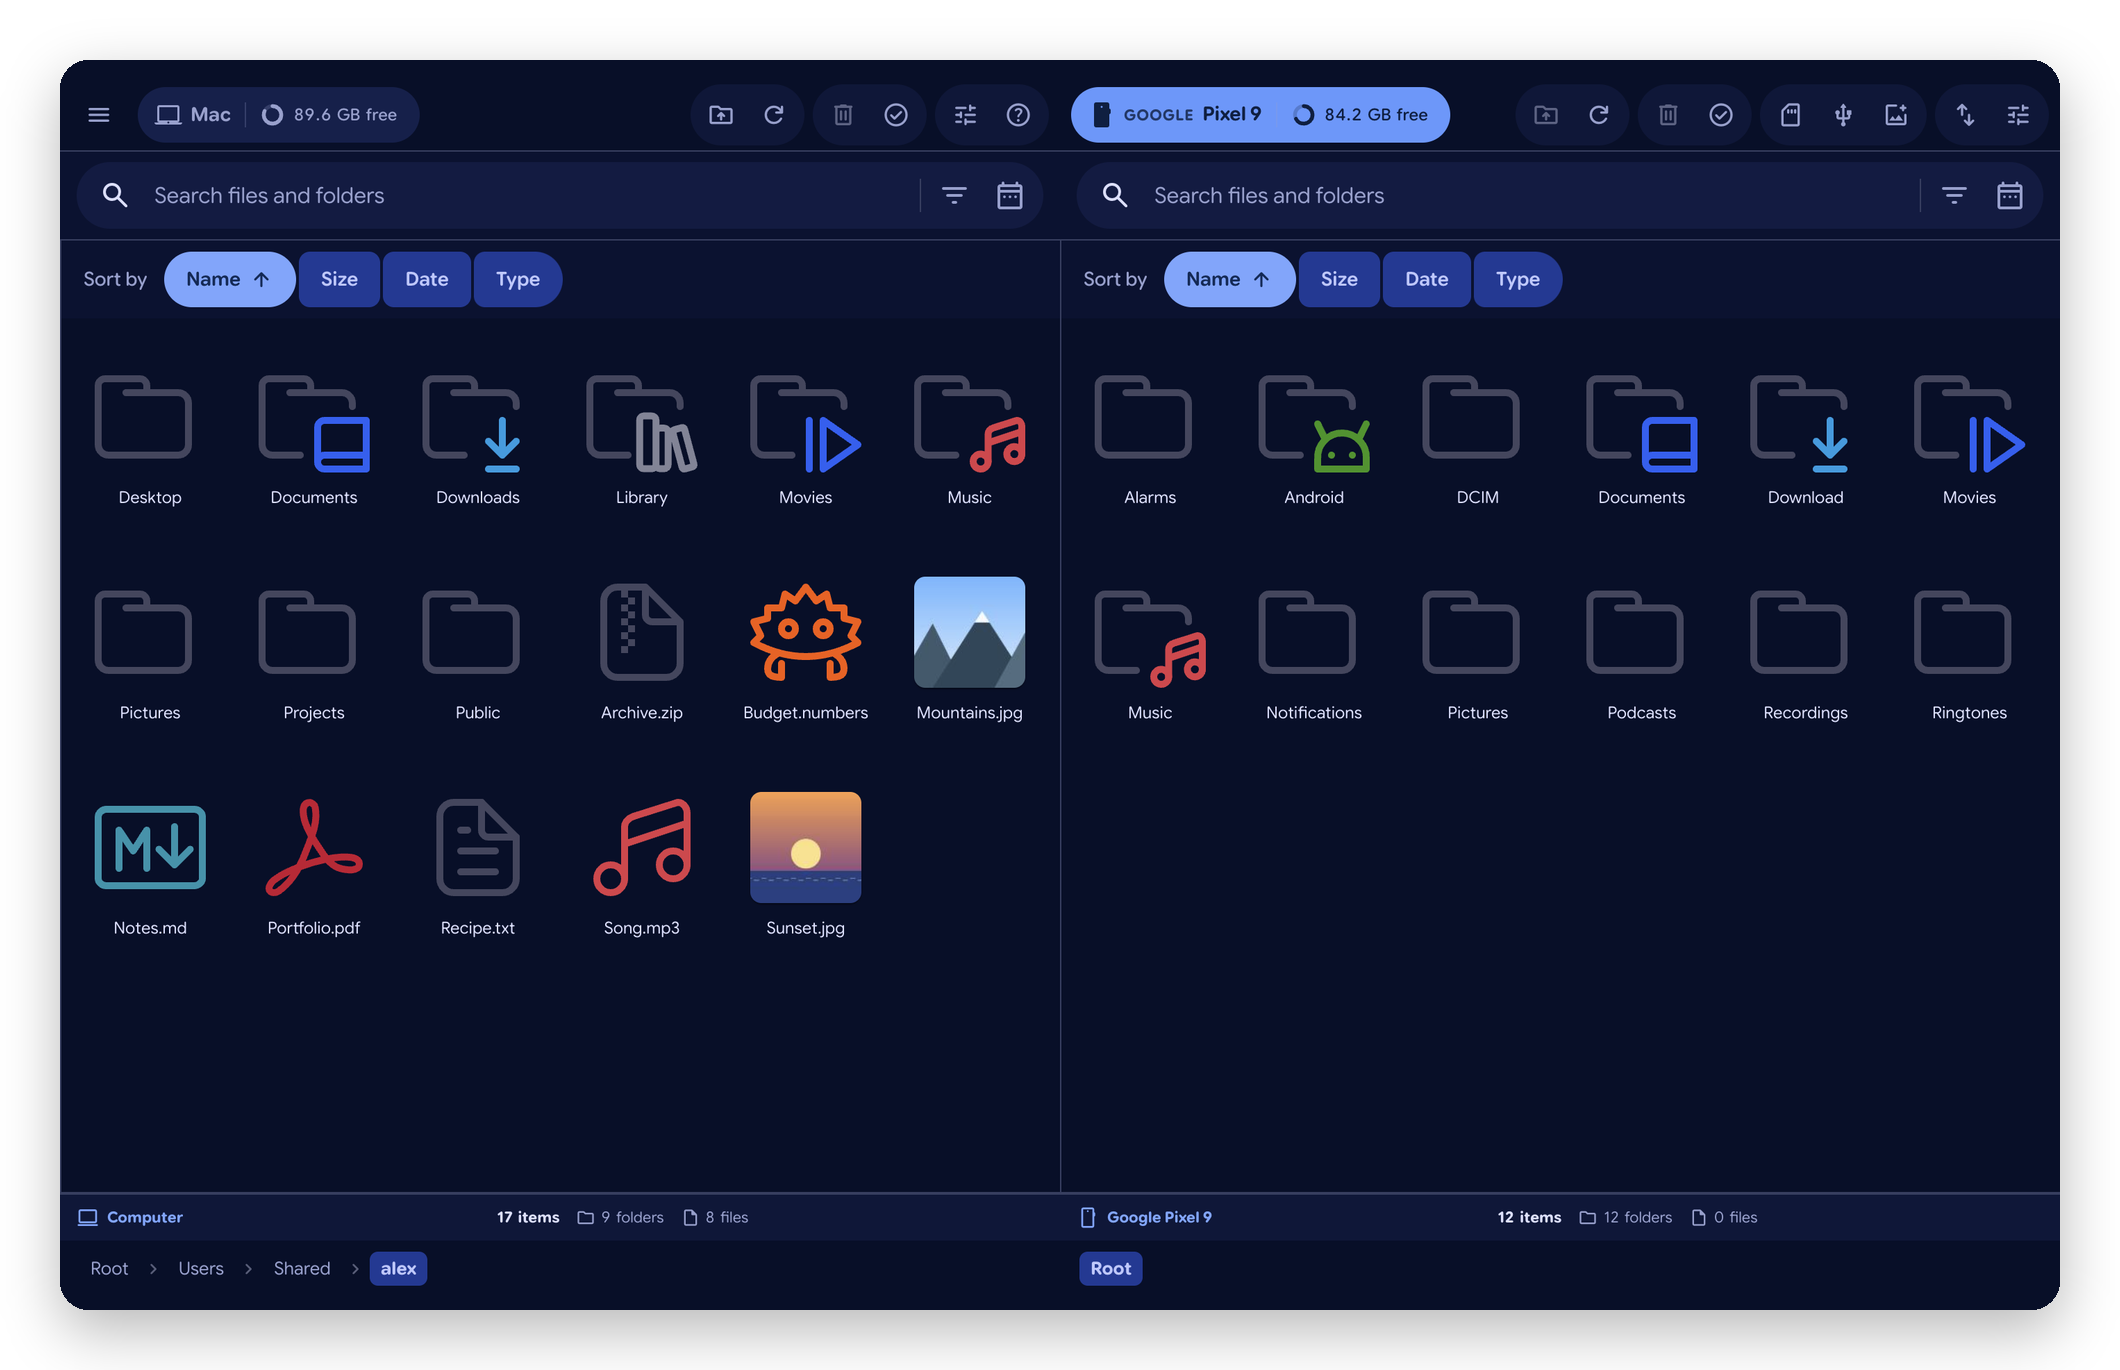
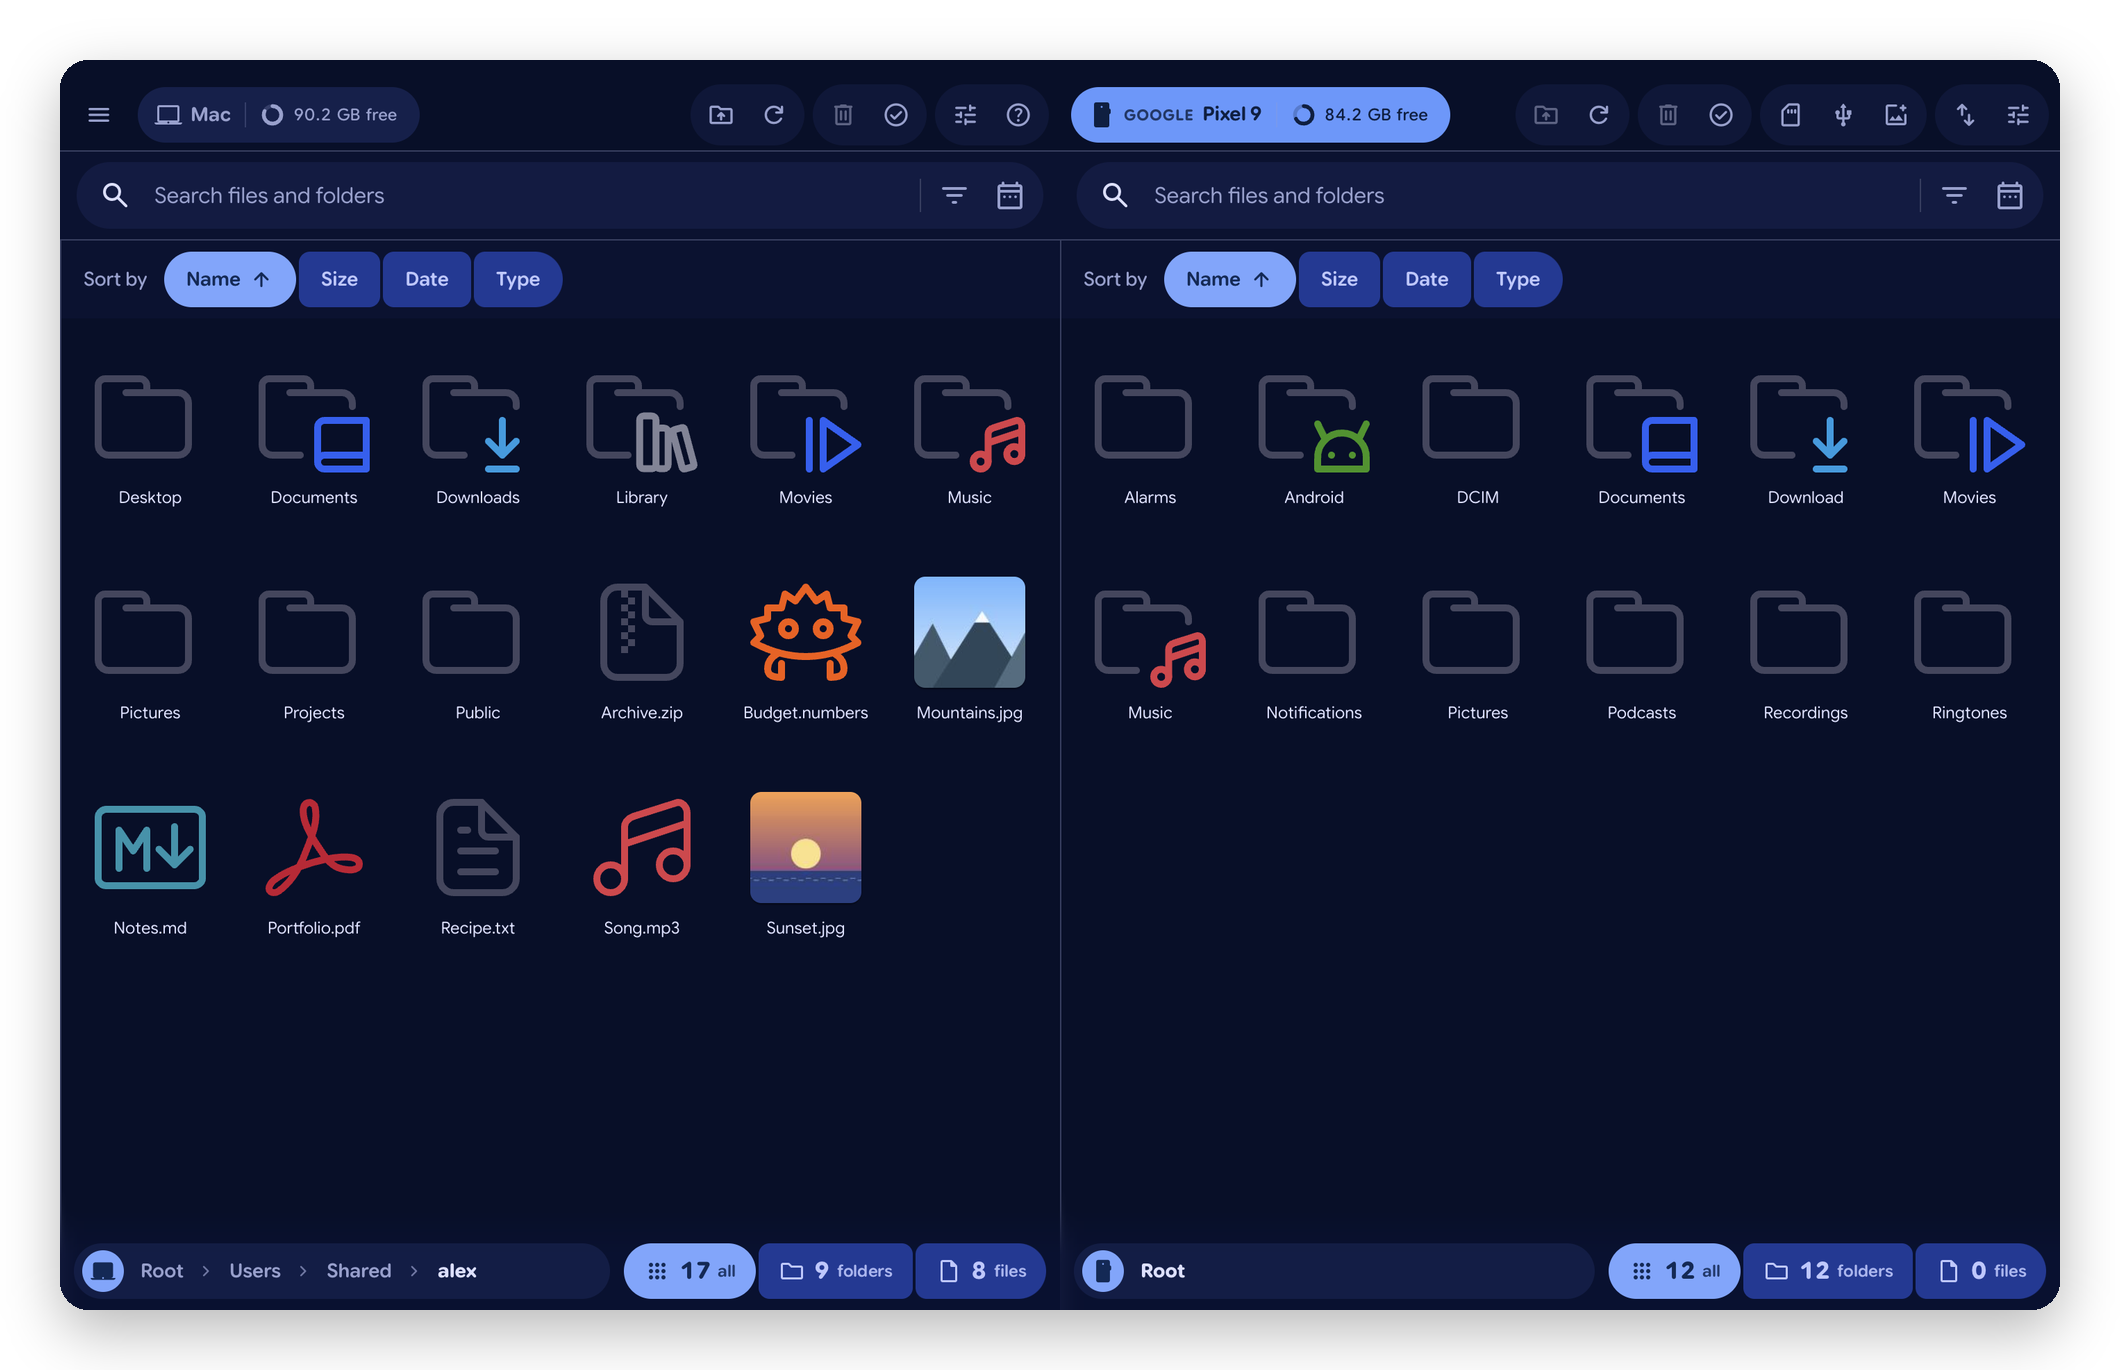
docs(readme): screenshots of 4.1.3 with the one-row pane footer

Changed region(s): [[0.0311, 0.8584, 0.9651, 0.9504]]

diff --git a/README.it.md b/README.it.md
@@ -43,14 +43,14 @@ OpenMTP Refined è un fork indipendente di [OpenMTP](https://github.com/ganeshrv
 
 ## In breve
 
-|                                 |                                                                                                                                     |
-| ------------------------------- | ----------------------------------------------------------------------------------------------------------------------------------- |
-| 📸 **Backup foto**              | Le foto e i video nuovi della fotocamera del telefono in una cartella del Mac, con un clic. Niente viene sovrascritto o cancellato. |
-| 🔁 **Pannello Trasferimenti**   | La copia in corso, i file pronti da incollare e la cronologia divisa per giorno. Le copie lunghe continuano in background.          |
-| 🎨 **Il colore che vuoi**       | Sette colori o il colore di macOS; tema chiaro e scuro; Google Sans Flex; movimenti a molla.                                        |
-| 🔔 **Aggiornamenti automatici** | Le nuove versioni vengono trovate, verificate e installate con un clic; un badge ti avvisa quando sono pronte.                      |
-| 🔌 **Connessione affidabile**   | OpenMTP libera il telefono dai servizi di macOS che lo occupano e spiega ogni problema con parole semplici.                         |
-| ⭐ **Strumenti di ogni giorno** | Cartelle preferite, filtri per data e tipo, menu del tasto destro a gruppi, dimensione dell'interfaccia regolabile.                 |
+|                                 |                                                                                                                                                                       |
+| ------------------------------- | --------------------------------------------------------------------------------------------------------------------------------------------------------------------- |
+| 📸 **Backup foto**              | Le foto e i video nuovi della fotocamera del telefono in una cartella del Mac, con un clic. Niente viene sovrascritto o cancellato.                                   |
+| 🔁 **Pannello Trasferimenti**   | La copia in corso, i file pronti da incollare e la cronologia divisa per giorno. Le copie lunghe continuano in background.                                            |
+| 🎨 **Il colore che vuoi**       | Sette colori o il colore di macOS; tema chiaro e scuro; Google Sans Flex; movimenti a molla.                                                                          |
+| 🔔 **Aggiornamenti automatici** | Le nuove versioni vengono trovate, verificate e installate con un clic; un badge ti avvisa quando sono pronte.                                                        |
+| 🔌 **Connessione affidabile**   | OpenMTP libera il telefono dai servizi di macOS che lo occupano e spiega ogni problema con parole semplici.                                                           |
+| ⭐ **Strumenti di ogni giorno** | Cartelle preferite, filtri per data e tipo, contatori che mostrano solo cartelle o solo file, menu del tasto destro a gruppi, dimensione dell'interfaccia regolabile. |
 
 ## Backup delle foto in un clic
 

diff --git a/README.md b/README.md
@@ -43,14 +43,14 @@ OpenMTP Refined is an independent fork of [OpenMTP](https://github.com/ganeshrve
 
 ## Highlights
 
-|                            |                                                                                                                  |
-| -------------------------- | ---------------------------------------------------------------------------------------------------------------- |
-| 📸 **Photo backup**        | New photos and videos from the phone's camera to a Mac folder, in one click. Nothing is overwritten or deleted.  |
-| 🔁 **Transfers panel**     | The copy in progress, files ready to paste and a history grouped by day. Long copies continue in the background. |
-| 🎨 **Your app colour**     | Seven colours or the macOS accent colour; light and dark themes; Google Sans Flex; spring motion.                |
-| 🔔 **Automatic updates**   | New versions are found, verified and installed with one click; a badge tells you when one is ready.              |
-| 🔌 **Reliable connection** | OpenMTP frees the phone from macOS services that grab it, and explains every problem in plain words.             |
-| ⭐ **Everyday tools**      | Favourite folders, filters by date and type, a grouped right-click menu, adjustable interface size.              |
+|                            |                                                                                                                                                    |
+| -------------------------- | -------------------------------------------------------------------------------------------------------------------------------------------------- |
+| 📸 **Photo backup**        | New photos and videos from the phone's camera to a Mac folder, in one click. Nothing is overwritten or deleted.                                    |
+| 🔁 **Transfers panel**     | The copy in progress, files ready to paste and a history grouped by day. Long copies continue in the background.                                   |
+| 🎨 **Your app colour**     | Seven colours or the macOS accent colour; light and dark themes; Google Sans Flex; spring motion.                                                  |
+| 🔔 **Automatic updates**   | New versions are found, verified and installed with one click; a badge tells you when one is ready.                                                |
+| 🔌 **Reliable connection** | OpenMTP frees the phone from macOS services that grab it, and explains every problem in plain words.                                               |
+| ⭐ **Everyday tools**      | Favourite folders, filters by date and type, counters that show only folders or only files, a grouped right-click menu, adjustable interface size. |
 
 ## Photo backup in one click
 
